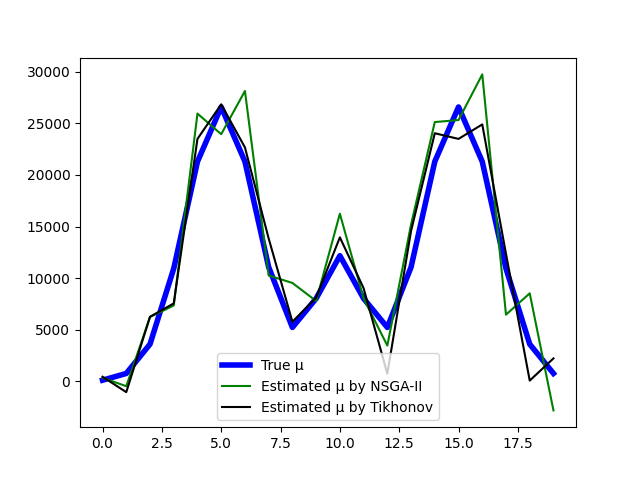
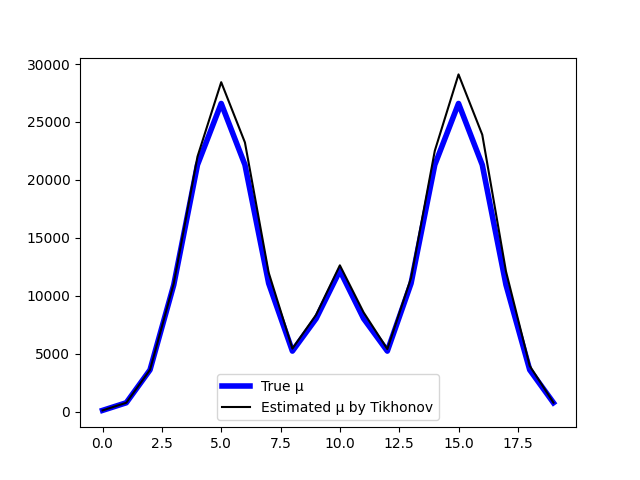
rmse

diff --git a/main.py b/main.py
@@ -1,5 +1,124 @@
-import matplotlib.pyplot as plt
+# import matplotlib.pyplot as plt
+# from External_lib.rmse import rmse
+# import csv
+# from MO.MOP_Definition import ImageReconstructionProblem
+# from MO.NSGA_II import NSGA2
+# from SSM.Estimation import estimation
+# from SSM.Generate_Linear_Model import generate_linear_model
+# from SSM.Generate_Measurements import generate_measurements
+# from SSM.Generate_SSM_Model import generate_ssm_model
+# from SSM.Regularized_Estimation import regularized_estimation
+# from SSM.Set_Settings import set_settings
+#
+# model, PROBE, signal = set_settings(example=1)
+#
+# # Generate SSM model
+# model = generate_ssm_model(model, PROBE)
+#
+# # Generate linear model
+# MODEL = generate_linear_model(model, signal, PROBE)
+#
+# # Generate measurements
+# SIGNAL = generate_measurements(signal, MODEL)
+#
+# # Estimation
+# ESTIMATION_RESULTS = estimation(MODEL, SIGNAL)
+#
+# # =================================================== MO ===================================================
+# #Problem
+# # PROBLEM = ImageReconstructionProblem(MODEL, PROBE, SIGNAL)
+# #
+# # # NSGA-II
+# # nsga2 = NSGA2(generations=500, population_size=100, mutaition_rate=0.8, problem=PROBLEM)
+# # x = [individual.values[0] for individual in nsga2.P_t]
+# # y = [individual.values[1] for individual in nsga2.P_t]
+# #
+# # best_individual_nsga2 = min(nsga2.P_t, key=lambda p: p.values[0])
+# # best_point_nsga2 = best_individual_nsga2.point
+# #
+# # mu_est_nsga2 = PROBLEM.mo_estimation(best_point_nsga2.reshape(20, 1))
+# #
+# #
+# # plt.figure()
+# # plt.scatter(x, y, c='red')
+# # plt.xlabel('f1')
+# # plt.ylabel('f2')
+# # #plt.title('Pareto Front')
+# # plt.savefig('pareto_front.png')
+# #
+#
+#
+#
+# # =================================================== Simulations ===================================================
+# sigmas = [0.0, 1e-4, 1e-3, 1e-3, 1e-1, 1.0]
+#
+# d_estimations = []
+# mu_estimations = []
+#
+#
+# with open("results.csv", mode='w', newline='') as file:
+#
+#     writer = csv.writer(file)
+#     writer.writerow(["sigma", "lsq", "nsga2", "tikhonov"])
+#
+#     for sigma in sigmas:
+#
+#         SIGNAL = generate_measurements(signal, MODEL, sigma)
+#
+#
+#         # MO
+#         PROBLEM = ImageReconstructionProblem(MODEL, PROBE, SIGNAL)
+#         nsga2 = NSGA2(generations=500, population_size=100, mutaition_rate=0.8, problem=PROBLEM)
+#         x = [individual.values[0] for individual in nsga2.P_t]
+#         y = [individual.values[1] for individual in nsga2.P_t]
+#         best_individual_nsga2 = min(nsga2.P_t, key=lambda p: p.values[0])
+#         d_est_nsga2 = best_individual_nsga2.point.reshape(20, 1)
+#
+#         mu_est_nsga2 = PROBLEM.mo_estimation(d_est_nsga2)
+#
+#
+#         # LSQ
+#         ESTIMATION_RESULTS = estimation(MODEL, SIGNAL)
+#         d_est_lsq = ESTIMATION_RESULTS.d
+#         mu_est_lsq = ESTIMATION_RESULTS.mu
+#
+#         # Tikhonov
+#         mu_est_tikh = regularized_estimation(MODEL, SIGNAL)
+#
+#         writer.writerow([sigma, rmse(PROBE.mu, mu_est_lsq), rmse(PROBE.mu, mu_est_nsga2), rmse(PROBE.mu, mu_est_tikh)])
+#
+#
+#
+#
+# # Regularized estimation
+# mu_est_tikh = regularized_estimation(MODEL, SIGNAL)
+# #
+# # # Primera figura
+# plt.figure()
+# plt.plot(PROBE.mu, "b-", linewidth=4, label="True µ")
+# # plt.plot(mu_est_nsga2, 'g-', label='Estimated µ by NSGA-II')
+# # # plt.plot(ESTIMATION_RESULTS.mu, 'r--', label='Estimated µ')
+# print("true mu", PROBE.mu)
+# # print("true d: ", PROBE.d)
+# plt.plot(mu_est_tikh, "k-", label="Estimated µ by Tikhonov")
+# plt.legend()
+# plt.savefig("true_and_estimated_mu.png")
+# plt.close()  # Cierra la primera figura
+#
+# # Segunda figura
+# plt.figure()
+# plt.plot(SIGNAL.i, "r--", label="i")
+# plt.plot(SIGNAL.y, "k-", label="y")
+# plt.legend()
+# plt.grid(True)
+# plt.savefig("laser_signal_measurement_signal.png")
+# plt.close()  # Cierra la segunda figura
+#
 
+import numpy as np
+import matplotlib.pyplot as plt
+import csv
+from External_lib.rmse import rmse
 from MO.MOP_Definition import ImageReconstructionProblem
 from MO.NSGA_II import NSGA2
 from SSM.Estimation import estimation
@@ -9,62 +128,86 @@ from SSM.Generate_SSM_Model import generate_ssm_model
 from SSM.Regularized_Estimation import regularized_estimation
 from SSM.Set_Settings import set_settings
 
+# Configuración del modelo
 model, PROBE, signal = set_settings(example=1)
-
-# Generate SSM model
 model = generate_ssm_model(model, PROBE)
-
-# Generate linear model
 MODEL = generate_linear_model(model, signal, PROBE)
 
-# Generate measurements
-SIGNAL = generate_measurements(signal, MODEL)
+# Valores de sigma (σ_w²) de 10^-10 a 10^-1
+# sigmas = np.logspace(-10, -1, 10)
+sigmas = [0.0, 1e-4, 1e-3, 1e-2, 1e-1, 1.0]
+# Número de simulaciones por cada valor de sigma
+num_simulations = 100
 
-# Estimation
-ESTIMATION_RESULTS = estimation(MODEL, SIGNAL)
+# Para almacenar los resultados
+avg_rmse_lsq = []
+avg_rmse_nsga2 = []
+avg_rmse_tikhonov = []
+count = 0
 
-# =================================================== MO ===================================================
-#Problem
-PROBLEM = ImageReconstructionProblem(MODEL, PROBE, SIGNAL)
+with open("results.csv", mode='w', newline='') as file:
+    writer = csv.writer(file)
+    writer.writerow(["sigma", "lsq", "nsga2", "tikhonov"])
+    for sigma in sigmas:
+        rmse_lsq_list = []
+        rmse_nsga2_list = []
+        rmse_tikhonov_list = []
 
-# NSGA-II
-nsga2 = NSGA2(generations=500, population_size=100, mutaition_rate=0.8, problem=PROBLEM)
-x = [individual.values[0] for individual in nsga2.P_t]
-y = [individual.values[1] for individual in nsga2.P_t]
+        for i in range(num_simulations):
+       
+            if (i + 1) % 10 == 0:
+                print(f"Simulación {count + 1} de {num_simulations * len(sigmas)}")
+                count += 1
+            # print(f"Simulación {i + 1} de {num_simulations} para sigma = {sigma}")
+            # Generar mediciones con el ruido correspondiente
+            SIGNAL = generate_measurements(signal, MODEL, sigma)
+        
+            # MO con NSGA-II
+            PROBLEM = ImageReconstructionProblem(MODEL, PROBE, SIGNAL)
+            nsga2 = NSGA2(generations=500, population_size=100, mutaition_rate=0.8, problem=PROBLEM)
+            best_individual_nsga2 = min(nsga2.P_t, key=lambda p: p.values[0])
+            d_est_nsga2 = best_individual_nsga2.point.reshape(20, 1)
+            mu_est_nsga2 = PROBLEM.mo_estimation(d_est_nsga2)
 
-best_individual_nsga2 = min(nsga2.P_t, key=lambda p: p.values[0])
-best_point_nsga2 = best_individual_nsga2.point
+            # LSQ
+            ESTIMATION_RESULTS = estimation(MODEL, SIGNAL)
+            mu_est_lsq = ESTIMATION_RESULTS.mu
+        
+            # Tikhonov
+            mu_est_tikh = regularized_estimation(MODEL, SIGNAL)
+        
+            # Calcular RMSE para cada método
+            rmse_lsq_list.append(rmse(PROBE.mu, mu_est_lsq))
+            rmse_nsga2_list.append(rmse(PROBE.mu, mu_est_nsga2))
+            rmse_tikhonov_list.append(rmse(PROBE.mu, mu_est_tikh))
+    
+        # Promediar los RMSE de las 100 simulaciones
+        avg_rmse_lsq.append(np.mean(rmse_lsq_list))
+        avg_rmse_nsga2.append(np.mean(rmse_nsga2_list))
+        avg_rmse_tikhonov.append(np.mean(rmse_tikhonov_list))
 
-mu_est_nsga2 = PROBLEM.mo_estimation(best_point_nsga2.reshape(20, 1))
+        writer.writerow([sigma, avg_rmse_lsq[-1], avg_rmse_nsga2[-1], avg_rmse_tikhonov[-1]])
 
 
+
+
+
+
+# print("avg_rmse_lsq: ", avg_rmse_nsga2)
+# Graficar los resultados
 plt.figure()
-plt.scatter(x, y, c='red')
-plt.xlabel('f1')
-plt.ylabel('f2')
-#plt.title('Pareto Front')
-plt.savefig('pareto_front.png')
-
-# Regularized estimation
-mu_est_tikh = regularized_estimation(MODEL, SIGNAL)
-#
-# # Primera figura
-plt.figure()
-plt.plot(PROBE.mu, "b-", linewidth=4, label="True µ")
-plt.plot(mu_est_nsga2, 'g-', label='Estimated µ by NSGA-II')
-# # plt.plot(ESTIMATION_RESULTS.mu, 'r--', label='Estimated µ')
-print("true mu", PROBE.mu)
-# print("true d: ", PROBE.d)
-plt.plot(mu_est_tikh, "k-", label="Estimated µ by Tikhonov")
-plt.legend()
-plt.savefig("true_and_estimated_mu.png")
-plt.close()  # Cierra la primera figura
-
-# Segunda figura
-plt.figure()
-plt.plot(SIGNAL.i, "r--", label="i")
-plt.plot(SIGNAL.y, "k-", label="y")
+plt.plot(sigmas, avg_rmse_lsq, label='LSQ', marker='o')
+plt.plot(sigmas, avg_rmse_nsga2, label='NSGA-II', marker='x')
+plt.plot(sigmas, avg_rmse_tikhonov, label='Tikhonov', marker='s')
+plt.xscale('log')
+plt.yscale('log')
+plt.xlabel(r'$\sigma_w^2$')
+plt.ylabel('Average RMSE')
 plt.legend()
 plt.grid(True)
-plt.savefig("laser_signal_measurement_signal.png")
-plt.close()  # Cierra la segunda figura
+
+# Guardar la gráfica
+plt.savefig("impact_of_noise_on_rmse.png")
+# plt.show()
+
+

diff --git a/SSM/Generate_Measurements.py b/SSM/Generate_Measurements.py
@@ -4,8 +4,20 @@ import numpy as np
 
 
 def generate_measurements(
-    signal: SimpleNamespace, model: SimpleNamespace
-) -> SimpleNamespace:  # sinal
+    signal: SimpleNamespace, model: SimpleNamespace,
+    sigma = 0.0 
+) -> SimpleNamespace:
+    """Generate measurements.
+    signal: SimpleNamespace
+        SIGNAL structure.
+    model: SimpleNamespace
+        MODEL structure.
+    :param sigma: float default 0
+    Returns
+    -------
+    SIGNAL: SimpleNamespace
+    """
+
     y = np.zeros((model.Ny, 1))
     y_without_meas_noise = np.zeros((model.Ny, 1))
     x = np.zeros((2 * model.Nz, 1))
@@ -31,7 +43,7 @@ def generate_measurements(
         y_without_meas_and_proc_noise[iter + 1] = model.c.T @ x_without_proc_noise
 
     # noise = np.random.normal(0, np.sqrt(model.sigma_w2), model.Ny)
-    noise = 1e-1 * np.random.randn(model.Ny, 1)
+    noise = sigma * np.random.randn(model.Ny, 1)
     
     signal.y = y + noise
     signal.y_without_meas_noise = y_without_meas_noise

diff --git a/SSM/Regularized_Estimation.py b/SSM/Regularized_Estimation.py
@@ -25,11 +25,11 @@ def regularized_estimation(
 
     # L curve method
     rho, eta, reg_corner_tikh, rho_c, eta_c, reg_param = l_curve(U, s, b, "Tikh", L, V)
-    plot_lc(rho, eta, reg_corner_tikh, rho_c, eta_c)
+    # plot_lc(rho, eta, reg_corner_tikh, rho_c, eta_c)
     d_est_tikh = tikhonov(H, b, reg_corner_tikh)
-    print("Tikhonov regularization d: ", d_est_tikh.flatten())
+    # print("Tikhonov regularization d: ", d_est_tikh.flatten())
     mu_est_tikh = mu_from_d(model, d_est_tikh)
-    print("tikhonov regularization mu: ", mu_est_tikh)
+    # print("tikhonov regularization mu: ", mu_est_tikh)
 
     return mu_est_tikh
 

diff --git a/External_lib/L_Curve.py b/External_lib/L_Curve.py
@@ -58,7 +58,7 @@ def l_curve(U, sm, b, method, L, V):
 
     
     reg_corner, rho_c, eta_c = l_corner(rho, eta, reg_param, U, s, b, "Tikh")
-    print(f"(rho_c, eta_c): ({rho_c}, {eta_c})")
+    # print(f"(rho_c, eta_c): ({rho_c}, {eta_c})")
     return  rho, eta, reg_corner, rho_c, eta_c, reg_param
 
 

diff --git a/External_lib/rmse.py b/External_lib/rmse.py
@@ -1,0 +1,4 @@
+import numpy as np
+
+def rmse(x, y):
+    return np.sqrt(np.mean((x - y) ** 2))
